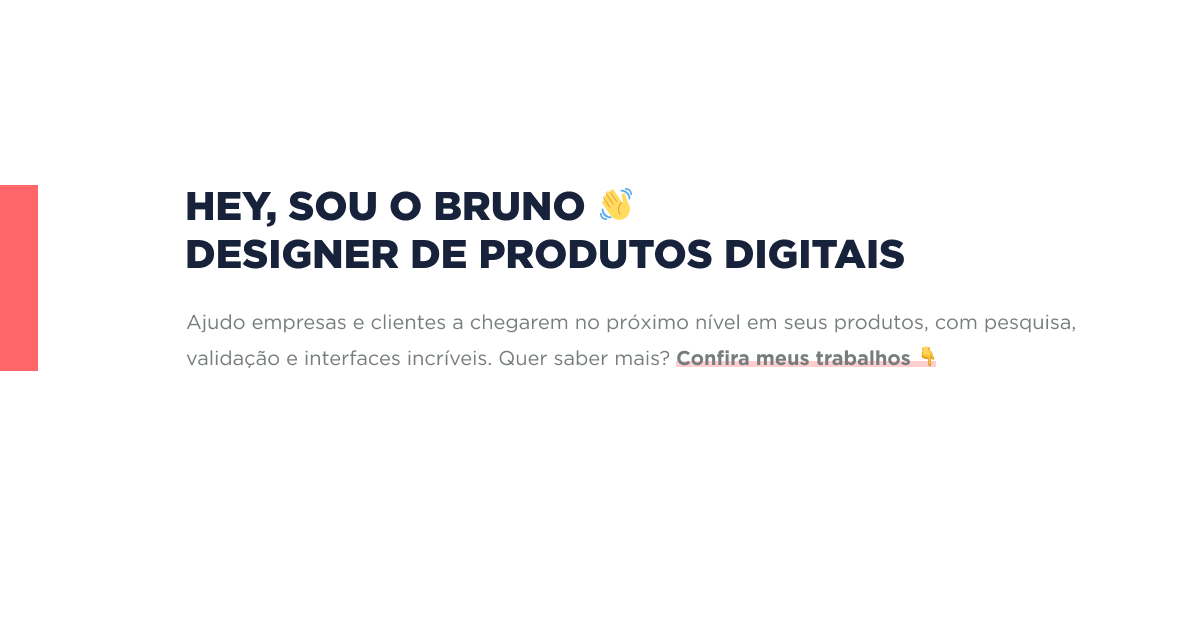
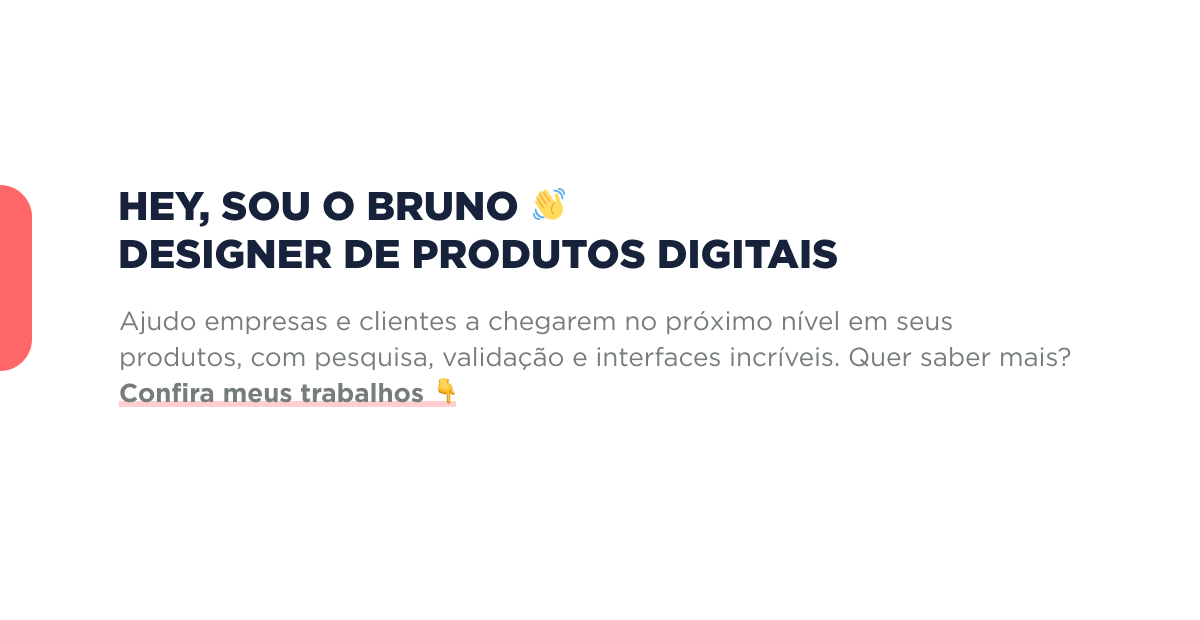
style updates

Changed region(s): [[0.0925, 0.4903, 0.8942, 0.6742], [0.0925, 0.3065, 0.7708, 0.4597], [0.0, 0.2758, 0.0308, 0.6129]]

diff --git a/v1/css/style.css b/v1/css/style.css
@@ -1,1 +1,1 @@
-@import url("https://fonts.googleapis.com/css2?family=Montserrat:ital,wght@0,300;0,400;0,500;0,900;1,700&display=swap");@import url("https://maxcdn.bootstrapcdn.com/font-awesome/4.7.0/css/font-awesome.min.css");/* line 52, scss/_guide.scss */#presentation p,#profile p,.intro-job p,.intro-job ul li p,.understand-job p,.result-job p{font-size:1.125rem;font-family:'Montserrat', sans-serif;font-weight:300;color:#2e3131;line-height:180%}@media (max-width: 575px){/* line 52, scss/_guide.scss */#presentation p,#profile p,.intro-job p,.intro-job ul li p,.understand-job p,.result-job p{font-size:1rem}}/* line 62, scss/_guide.scss */#profile .social-media ul li a,footer .contact a{font-size:1rem;font-family:'Montserrat', sans-serif;font-weight:400;letter-spacing:.5rem;text-transform:uppercase;color:#2e3131;-webkit-transition:all 0.3s ease-in-out 0s;transition:all 0.3s ease-in-out 0s}/* line 70, scss/_guide.scss */#profile .social-media ul li a:hover,footer .contact a:hover{text-decoration:none;color:#ff6768}/* line 74, scss/_guide.scss */#profile .social-media ul li a::after,footer .contact a::after{content:'\f061';font-family:FontAwesome;color:#17223b}/* line 80, scss/_guide.scss */#presentation h1,.cover-job h1{font-size:2.5rem;font-family:'Montserrat', sans-serif;font-weight:900;color:#17223b;text-transform:uppercase;line-height:120%;letter-spacing:2px}@media (max-width: 767px){/* line 80, scss/_guide.scss */#presentation h1,.cover-job h1{font-size:1.75rem}}@media (max-width: 375px){/* line 80, scss/_guide.scss */#presentation h1,.cover-job h1{font-size:1.5rem}}/* line 95, scss/_guide.scss */#jobs-done h2,#jobs-done .job .job-link h3,#profile .author h2,#profile .content-list h3,#profile .social-media ul li:first-child,.understand-job h2,.result-job h2,.next-job span{font-family:'Montserrat', sans-serif;font-weight:500;color:#17223b;text-transform:uppercase}/* line 101, scss/_guide.scss */.intro-job ul li::before{width:3rem;height:3rem;background-color:rgba(255,103,104,0.16);position:relative;display:flex;justify-content:center;align-items:center;border-radius:100%}/* line 4, scss/_general.scss */::selection{background:#ff6768;color:#fff}/* line 8, scss/_general.scss */.container-fluid{margin:0;padding:0;overflow:hidden}/* line 18, scss/_general.scss */header.container-fluid{display:flex;justify-content:space-between;align-content:center;align-items:center;padding:2rem}/* line 26, scss/_general.scss */.menu ul{list-style:none;padding:0;margin:0}/* line 30, scss/_general.scss */.menu ul li{display:inline;margin:0 1rem 0 0}/* line 33, scss/_general.scss */.menu ul li a{font-family:'Montserrat', sans-serif;font-weight:300;color:#2e3131;font-size:1rem;font-weight:400;-webkit-transition:all 0.3s ease-in-out 0s;transition:all 0.3s ease-in-out 0s}/* line 40, scss/_general.scss */.menu ul li a:hover{color:#ff6768;text-decoration:none}/* line 45, scss/_general.scss */.menu ul li:last-child{background-color:#ff6768;padding:.8rem 1.5rem;border-radius:1.5rem}/* line 49, scss/_general.scss */.menu ul li:last-child a{color:#fff}/* line 51, scss/_general.scss */.menu ul li:last-child a:hover{color:none}/* line 60, scss/_general.scss */#presentation,#jobs-done,#profile{margin-bottom:10rem}/* line 64, scss/_general.scss */#presentation{margin-top:10rem}/* line 69, scss/_general.scss */#presentation p{width:85%;position:relative}/* line 73, scss/_general.scss */#presentation p span{font-weight:500;color:#2e3131;position:absolute}/* line 77, scss/_general.scss */#presentation p span::after{content:'';display:block;background:rgba(255,103,104,0.15);height:.4rem;width:100%;top:1.2rem;position:absolute;z-index:-1}/* line 94, scss/_general.scss */#jobs-done a:hover{text-decoration:none}/* line 98, scss/_general.scss */#jobs-done h2{font-size:2rem;margin-bottom:3rem}/* line 104, scss/_general.scss */#jobs-done .row .job:nth-child(2),#jobs-done .row .job:nth-child(4){margin-top:3rem}/* line 108, scss/_general.scss */#jobs-done .job{margin-bottom:3rem;transition:transform .2s}/* line 111, scss/_general.scss */#jobs-done .job:hover{transform:scale(1.03)}/* line 114, scss/_general.scss */#jobs-done .job .job-img{width:100%;height:29.75rem;background-size:cover;background-repeat:no-repeat;background-position:center;border-radius:4px;margin-bottom:1rem}/* line 123, scss/_general.scss */#jobs-done .job .job-1{background-image:url(../assets/img/mckp_site_cnn.png)}/* line 126, scss/_general.scss */#jobs-done .job .job-2{background-image:url(../assets/img/mckp_site_wiseapp.png)}/* line 129, scss/_general.scss */#jobs-done .job .job-3{background-image:url(../assets/img/mckp_site_bant.png)}/* line 132, scss/_general.scss */#jobs-done .job .job-4{background-image:url(../assets/img/mckp_site_beebox.png)}/* line 135, scss/_general.scss */#jobs-done .job .job-link{width:100%;display:flex;justify-content:space-between;align-content:center;align-items:center}/* line 141, scss/_general.scss */#jobs-done .job .job-link h3{font-size:1.5rem}/* line 145, scss/_general.scss */#jobs-done .job .job-link span{width:2.5rem;height:2.5rem;background-color:#ff6768;border-radius:100%;display:flex;justify-content:center;align-content:center;align-items:center}/* line 154, scss/_general.scss */#jobs-done .job .job-link span::after{content:'\f061';font-family:FontAwesome;color:#fff}/* line 164, scss/_general.scss */#profile{width:96%;margin-left:2%;background-color:#f6f4f4;border-radius:4px}/* line 169, scss/_general.scss */#profile .author{display:flex;justify-content:first baseline;align-items:center;margin:2rem 0 1rem 0}/* line 174, scss/_general.scss */#profile .author .foto-perfil-wrap{width:6.75rem;height:6.75rem;position:relative;background:linear-gradient(to bottom, #FF6768, #FFC8C8);padding:3px;border-radius:100%;margin-right:1rem}/* line 183, scss/_general.scss */#profile .author .foto-perfil{width:102px;height:102px;border-radius:100%;background-image:url("../assets/img/foto_bq_medias_6.jpg");background-size:cover}/* line 190, scss/_general.scss */#profile .author h2{font-size:2rem}/* line 195, scss/_general.scss */#profile p{margin-bottom:2rem}/* line 200, scss/_general.scss */#profile .content-list h3{font-size:1.25rem;margin-bottom:1.5rem}/* line 205, scss/_general.scss */#profile .content-list ul{list-style:none;padding:0;margin:0}/* line 209, scss/_general.scss */#profile .content-list ul li,#profile .content-list ul h4{margin-bottom:1rem;font-size:1rem;font-family:'Montserrat', sans-serif;font-weight:500;color:#17223b}/* line 215, scss/_general.scss */#profile .content-list ul li .job-atual,#profile .content-list ul h4 .job-atual{background:#ff6768;padding:.3rem;color:#fff;font-size:.875rem;border-radius:4px}/* line 225, scss/_general.scss */#profile .social-media{margin:3rem 0 2rem 0}/* line 227, scss/_general.scss */#profile .social-media ul{list-style:none;margin:0;padding:0}/* line 231, scss/_general.scss */#profile .social-media ul li{margin-right:1rem;float:left}/* line 232, scss/_general.scss */#profile .social-media ul li:first-child{font-size:1.25rem;position:relative;top:-2px;margin-right:2rem}/* line 250, scss/_general.scss */footer .row{margin:0}/* line 253, scss/_general.scss */footer .contact{display:flex;justify-content:space-between;align-items:center;margin-bottom:10rem}/* line 258, scss/_general.scss */footer .contact h2{font-size:2.5rem;font-family:'Montserrat', sans-serif;font-weight:700;color:#17223b;text-transform:uppercase}/* line 269, scss/_general.scss */footer .year{font-size:.75rem;font-family:'Montserrat', sans-serif;font-weight:400;letter-spacing:.5rem;text-transform:uppercase;color:#2e3131;margin-bottom:3rem}/* line 280, scss/_general.scss */.cover-job{width:100%;height:13.75rem;display:flex;justify-content:flex-end;align-content:flex-end;flex-direction:column;position:relative}/* line 289, scss/_general.scss */.cover-job h1{color:#17223b;margin-bottom:3rem;z-index:2}/* line 297, scss/_general.scss */.intro-job{margin:2rem 0 5rem 0}/* line 302, scss/_general.scss */.intro-job ul{list-style:none;padding:0;margin:0}/* line 306, scss/_general.scss */.intro-job ul li::before{float:left;margin-right:1rem;content:'';background-repeat:no-repeat;background-position:center center}/* line 314, scss/_general.scss */.intro-job ul li:nth-child(1)::before{background-image:url(../assets/icons/ico_done.svg)}/* line 317, scss/_general.scss */.intro-job ul li:nth-child(2)::before{background-image:url(../assets/icons/ico_map.svg)}/* line 320, scss/_general.scss */.intro-job ul li:nth-child(3)::before{background-image:url(../assets/icons/ico_global.svg)}/* line 324, scss/_general.scss */.intro-job ul li h4{margin-bottom:1rem;font-size:1rem;font-family:'Montserrat', sans-serif;font-weight:500;color:#17223b}/* line 331, scss/_general.scss */.intro-job ul li p{margin-bottom:2rem}/* line 335, scss/_general.scss */.intro-job ul li a{font-weight:500;color:#ff6768;position:absolute;font-size:1.125rem}/* line 340, scss/_general.scss */.intro-job ul li a::after{content:'';display:block;background:rgba(255,103,104,0.15);height:.4rem;width:100%;top:1.2rem;position:absolute;z-index:-1}/* line 350, scss/_general.scss */.intro-job ul li a:hover{text-decoration:none}/* line 357, scss/_general.scss */.understand-job,.result-job{margin-bottom:5rem}/* line 359, scss/_general.scss */.understand-job h2,.result-job h2{font-size:1.5rem;margin-bottom:1.5rem}/* line 371, scss/_general.scss */.result-job .row .col-12:nth-child(2),.result-job .row .col-12:nth-child(4),.result-job .row .col-12:nth-child(6){margin-top:3rem}/* line 375, scss/_general.scss */.result-job .result-job-container{width:100%;height:48rem;background-color:#e9e9e9;background-size:cover;background-repeat:no-repeat;background-position:center;border-radius:4px;margin-bottom:3rem}/* line 386, scss/_general.scss */.result-job .job-bant-1{background-image:url(../assets/img/img_bant_1.jpg)}/* line 389, scss/_general.scss */.result-job .job-bant-2{background-image:url(../assets/img/img_bant_2.jpg)}/* line 393, scss/_general.scss */.result-job .job-bb-1{background-image:url(../assets/img/img_bb_1.jpg)}/* line 396, scss/_general.scss */.result-job .job-bb-2{background-image:url(../assets/img/img_bb_2.jpg)}/* line 399, scss/_general.scss */.result-job .job-bb-3{background-image:url(../assets/img/img_bb_3.jpg)}/* line 403, scss/_general.scss */.result-job .job-cnn-1{background-image:url(../assets/img/img_cnn_1.jpg)}/* line 406, scss/_general.scss */.result-job .job-cnn-2{background-image:url(../assets/img/img_cnn_2.jpg)}/* line 410, scss/_general.scss */.result-job .job-wise-1{background-image:url(../assets/img/img_wise_1.jpg)}/* line 413, scss/_general.scss */.result-job .job-wise-2{background-image:url(../assets/img/img_wise_2.jpg)}/* line 418, scss/_general.scss */.next-job{width:100%;height:12.5rem;display:flex;justify-content:center;align-content:center;align-items:center;margin-bottom:5rem}/* line 426, scss/_general.scss */.next-job span{font-size:1.5rem;margin-bottom:2rem;display:block}/* line 432, scss/_general.scss */.next-job a{display:block;text-align:center;font-family:'Montserrat', sans-serif;font-weight:500;font-size:1.125rem;-webkit-transition:all 0.3s ease-in-out 0s;transition:all 0.3s ease-in-out 0s;background-color:#ff6768;padding:.8rem 1.5rem;border-radius:1.5rem;color:#fff}/* line 443, scss/_general.scss */.next-job a:hover{color:none;text-decoration:none}@media (max-width: 1199px){/* line 4, scss/_media-querie.scss */.intro-job ul li::before{float:none;margin:0 0 1rem 0}/* line 9, scss/_media-querie.scss */.intro-job ul li p{margin-bottom:1rem}}@media (max-width: 991px){/* line 19, scss/_media-querie.scss */#jobs-done .job .job-img{height:20rem}/* line 25, scss/_media-querie.scss */.result-job .result-job-container{height:31.25rem}}@media (max-width: 767px){/* line 32, scss/_media-querie.scss */#presentation p{width:100%}/* line 38, scss/_media-querie.scss */#jobs-done .row .job:nth-child(2),#jobs-done .row .job:nth-child(4){margin-top:0}/* line 46, scss/_media-querie.scss */#profile .social-media ul li{margin:0 0 1rem 0;float:none}/* line 54, scss/_media-querie.scss */footer h2{margin-bottom:2rem}/* line 59, scss/_media-querie.scss */.intro-job p{margin-bottom:3rem}/* line 65, scss/_media-querie.scss */.result-job .row .col-12:nth-child(2),.result-job .row .col-12:nth-child(4),.result-job .row .col-12:nth-child(6){margin-top:0}}@media (max-width: 575px){/* line 72, scss/_media-querie.scss */header.container-fluid{padding:2rem 1rem}/* line 77, scss/_media-querie.scss */.menu ul li{margin:0}/* line 82, scss/_media-querie.scss */#presentation,#jobs-done,#profile{margin-bottom:7rem}/* line 85, scss/_media-querie.scss */#presentation{margin-top:5rem}/* line 88, scss/_media-querie.scss */#presentation p a{display:block}/* line 94, scss/_media-querie.scss */#jobs-done h2{font-size:1.5rem}/* line 98, scss/_media-querie.scss */#jobs-done .job .job-link{font-size:1.25rem}/* line 104, scss/_media-querie.scss */.result-job .result-job-container{height:23rem}}
+@import url("https://fonts.googleapis.com/css2?family=Montserrat:ital,wght@0,300;0,400;0,500;0,900;1,700&display=swap");@import url("https://maxcdn.bootstrapcdn.com/font-awesome/4.7.0/css/font-awesome.min.css");/* line 51, scss/_guide.scss */#presentation p,#profile p,.intro-job p,.intro-job ul li p,.understand-job p,.result-job p{font-size:1.125rem;font-family:'Montserrat', sans-serif;font-weight:300;color:#2e3131;line-height:180%}@media (max-width: 575px){/* line 51, scss/_guide.scss */#presentation p,#profile p,.intro-job p,.intro-job ul li p,.understand-job p,.result-job p{font-size:1rem}}/* line 61, scss/_guide.scss */#profile .social-media ul li a,footer .contact a{font-size:1rem;font-family:'Montserrat', sans-serif;font-weight:400;letter-spacing:.5rem;text-transform:uppercase;color:#2e3131;-webkit-transition:all 0.3s ease-in-out 0s;transition:all 0.3s ease-in-out 0s}/* line 69, scss/_guide.scss */#profile .social-media ul li a:hover,footer .contact a:hover{text-decoration:none;color:#ff6768}/* line 79, scss/_guide.scss */#presentation h1,.cover-job h1{font-size:2.5rem;font-family:'Montserrat', sans-serif;font-weight:900;color:#17223b;text-transform:uppercase;line-height:120%;letter-spacing:2px}@media (max-width: 767px){/* line 79, scss/_guide.scss */#presentation h1,.cover-job h1{font-size:1.75rem}}@media (max-width: 375px){/* line 79, scss/_guide.scss */#presentation h1,.cover-job h1{font-size:1.5rem}}/* line 94, scss/_guide.scss */#jobs-done h2,#jobs-done .job .job-link h3,#profile .author h2,#profile .content-list h3,#profile .social-media ul li:first-child,.understand-job h2,.result-job h2,.next-job span{font-family:'Montserrat', sans-serif;font-weight:500;color:#17223b;text-transform:uppercase}/* line 100, scss/_guide.scss */.intro-job ul li::before{width:3rem;height:3rem;background-color:rgba(255,103,104,0.16);position:relative;display:flex;justify-content:center;align-items:center;border-radius:100%}/* line 4, scss/_general.scss */::selection{background:#ff6768;color:#fff}/* line 8, scss/_general.scss */.container-fluid{margin:0;padding:0;overflow:hidden}/* line 18, scss/_general.scss */header.container-fluid{display:flex;justify-content:space-between;align-content:center;align-items:center;padding:2rem}/* line 26, scss/_general.scss */.menu ul{list-style:none;padding:0;margin:0}/* line 30, scss/_general.scss */.menu ul li{display:inline;margin:0 1rem 0 0}/* line 33, scss/_general.scss */.menu ul li a{font-family:'Montserrat', sans-serif;font-weight:300;color:#2e3131;font-size:1rem;font-weight:400;-webkit-transition:all 0.3s ease-in-out 0s;transition:all 0.3s ease-in-out 0s}/* line 40, scss/_general.scss */.menu ul li a:hover{color:#ff6768;text-decoration:none}/* line 45, scss/_general.scss */.menu ul li:last-child{background-color:#ff6768;padding:.8rem 1.5rem;border-radius:1.5rem}/* line 49, scss/_general.scss */.menu ul li:last-child a{color:#fff}/* line 51, scss/_general.scss */.menu ul li:last-child a:hover{color:none}/* line 60, scss/_general.scss */#presentation,#jobs-done,#profile{margin-bottom:10rem}/* line 64, scss/_general.scss */#presentation{margin-top:10rem}/* line 69, scss/_general.scss */#presentation p{width:85%;position:relative}/* line 73, scss/_general.scss */#presentation p span{font-weight:500;color:#2e3131;position:absolute}/* line 77, scss/_general.scss */#presentation p span::after{content:'';display:block;background:rgba(255,103,104,0.15);height:.4rem;width:100%;top:1.2rem;position:absolute;z-index:-1}/* line 94, scss/_general.scss */#jobs-done a:hover{text-decoration:none}/* line 98, scss/_general.scss */#jobs-done h2{font-size:2rem;margin-bottom:3rem}/* line 104, scss/_general.scss */#jobs-done .row .job:nth-child(2),#jobs-done .row .job:nth-child(4){margin-top:3rem}/* line 108, scss/_general.scss */#jobs-done .job{margin-bottom:3rem;transition:transform .2s}/* line 111, scss/_general.scss */#jobs-done .job:hover{transform:scale(1.03)}/* line 114, scss/_general.scss */#jobs-done .job .job-img{width:100%;height:29.75rem;background-size:cover;background-repeat:no-repeat;background-position:center;border-radius:4px;margin-bottom:1rem}/* line 123, scss/_general.scss */#jobs-done .job .job-1{background-image:url(../assets/img/mckp_site_cnn.png)}/* line 126, scss/_general.scss */#jobs-done .job .job-2{background-image:url(../assets/img/mckp_site_wiseapp.png)}/* line 129, scss/_general.scss */#jobs-done .job .job-3{background-image:url(../assets/img/mckp_site_bant.png)}/* line 132, scss/_general.scss */#jobs-done .job .job-4{background-image:url(../assets/img/mckp_site_beebox.png)}/* line 135, scss/_general.scss */#jobs-done .job .job-link{width:100%;display:flex;justify-content:space-between;align-content:center;align-items:center}/* line 141, scss/_general.scss */#jobs-done .job .job-link h3{font-size:1.5rem}/* line 145, scss/_general.scss */#jobs-done .job .job-link span{width:2.5rem;height:2.5rem;background-color:#ff6768;border-radius:100%;display:flex;justify-content:center;align-content:center;align-items:center}/* line 154, scss/_general.scss */#jobs-done .job .job-link span::after{content:'\f061';font-family:FontAwesome;color:#fff}/* line 164, scss/_general.scss */#profile{width:96%;margin-left:2%;background-color:#f6f4f4;border-radius:4px}/* line 169, scss/_general.scss */#profile .author{display:flex;justify-content:first baseline;align-items:center;margin:2rem 0 1rem 0}/* line 174, scss/_general.scss */#profile .author .foto-perfil-wrap{width:6.75rem;height:6.75rem;position:relative;background:linear-gradient(to bottom, #FF6768, #FFC8C8);padding:3px;border-radius:100%;margin-right:1rem}/* line 183, scss/_general.scss */#profile .author .foto-perfil{width:102px;height:102px;border-radius:100%;background-image:url("../assets/img/foto_bq_medias_6.jpg");background-size:cover}/* line 190, scss/_general.scss */#profile .author h2{font-size:2rem}/* line 195, scss/_general.scss */#profile p{margin-bottom:2rem}/* line 200, scss/_general.scss */#profile .content-list h3{font-size:1.25rem;margin-bottom:1.5rem}/* line 205, scss/_general.scss */#profile .content-list ul{list-style:none;padding:0;margin:0}/* line 209, scss/_general.scss */#profile .content-list ul li,#profile .content-list ul h4{margin-bottom:1rem;font-size:1rem;font-family:'Montserrat', sans-serif;font-weight:500;color:#17223b}/* line 215, scss/_general.scss */#profile .content-list ul li .job-atual,#profile .content-list ul h4 .job-atual{background:#ff6768;padding:.3rem;color:#fff;font-size:.875rem;border-radius:4px}/* line 225, scss/_general.scss */#profile .social-media{margin:3rem 0 2rem 0}/* line 227, scss/_general.scss */#profile .social-media ul{list-style:none;margin:0;padding:0}/* line 231, scss/_general.scss */#profile .social-media ul li{margin-right:1rem;float:left}/* line 232, scss/_general.scss */#profile .social-media ul li:first-child{font-size:1.25rem;position:relative;top:-2px;margin-right:2rem}/* line 250, scss/_general.scss */footer .row{margin:0}/* line 253, scss/_general.scss */footer .contact{display:flex;justify-content:space-between;align-items:center;margin-bottom:10rem}/* line 258, scss/_general.scss */footer .contact h2{font-size:2.5rem;font-family:'Montserrat', sans-serif;font-weight:700;color:#17223b;text-transform:uppercase}/* line 269, scss/_general.scss */footer .year{font-size:.75rem;font-family:'Montserrat', sans-serif;font-weight:400;letter-spacing:.5rem;text-transform:uppercase;color:#2e3131;margin-bottom:3rem}/* line 280, scss/_general.scss */.cover-job{width:100%;height:13.75rem;display:flex;justify-content:flex-end;align-content:flex-end;flex-direction:column;position:relative}/* line 289, scss/_general.scss */.cover-job h1{color:#17223b;margin-bottom:3rem;z-index:2}/* line 297, scss/_general.scss */.intro-job{margin:2rem 0 5rem 0}/* line 302, scss/_general.scss */.intro-job ul{list-style:none;padding:0;margin:0}/* line 306, scss/_general.scss */.intro-job ul li::before{float:left;margin-right:1rem;content:'';background-repeat:no-repeat;background-position:center center}/* line 314, scss/_general.scss */.intro-job ul li:nth-child(1)::before{background-image:url(../assets/icons/ico_done.svg)}/* line 317, scss/_general.scss */.intro-job ul li:nth-child(2)::before{background-image:url(../assets/icons/ico_map.svg)}/* line 320, scss/_general.scss */.intro-job ul li:nth-child(3)::before{background-image:url(../assets/icons/ico_global.svg)}/* line 324, scss/_general.scss */.intro-job ul li h4{margin-bottom:1rem;font-size:1rem;font-family:'Montserrat', sans-serif;font-weight:500;color:#17223b}/* line 331, scss/_general.scss */.intro-job ul li p{margin-bottom:2rem}/* line 335, scss/_general.scss */.intro-job ul li a{font-weight:500;color:#ff6768;position:absolute;font-size:1.125rem}/* line 340, scss/_general.scss */.intro-job ul li a::after{content:'';display:block;background:rgba(255,103,104,0.15);height:.4rem;width:100%;top:1.2rem;position:absolute;z-index:-1}/* line 350, scss/_general.scss */.intro-job ul li a:hover{text-decoration:none}/* line 357, scss/_general.scss */.understand-job,.result-job{margin-bottom:5rem}/* line 359, scss/_general.scss */.understand-job h2,.result-job h2{font-size:1.5rem;margin-bottom:1.5rem}/* line 371, scss/_general.scss */.result-job .row .col-12:nth-child(2),.result-job .row .col-12:nth-child(4),.result-job .row .col-12:nth-child(6){margin-top:3rem}/* line 375, scss/_general.scss */.result-job .result-job-container{width:100%;height:48rem;background-color:#e9e9e9;background-size:cover;background-repeat:no-repeat;background-position:center;border-radius:4px;margin-bottom:3rem}/* line 386, scss/_general.scss */.result-job .job-bant-1{background-image:url(../assets/img/img_bant_1.jpg)}/* line 389, scss/_general.scss */.result-job .job-bant-2{background-image:url(../assets/img/img_bant_2.jpg)}/* line 393, scss/_general.scss */.result-job .job-bb-1{background-image:url(../assets/img/img_bb_1.jpg)}/* line 396, scss/_general.scss */.result-job .job-bb-2{background-image:url(../assets/img/img_bb_2.jpg)}/* line 399, scss/_general.scss */.result-job .job-bb-3{background-image:url(../assets/img/img_bb_3.jpg)}/* line 403, scss/_general.scss */.result-job .job-cnn-1{background-image:url(../assets/img/img_cnn_1.jpg)}/* line 406, scss/_general.scss */.result-job .job-cnn-2{background-image:url(../assets/img/img_cnn_2.jpg)}/* line 410, scss/_general.scss */.result-job .job-wise-1{background-image:url(../assets/img/img_wise_1.jpg)}/* line 413, scss/_general.scss */.result-job .job-wise-2{background-image:url(../assets/img/img_wise_2.jpg)}/* line 418, scss/_general.scss */.next-job{width:100%;height:12.5rem;display:flex;justify-content:center;align-content:center;align-items:center;margin-bottom:5rem}/* line 426, scss/_general.scss */.next-job span{font-size:1.5rem;margin-bottom:2rem;display:block}/* line 432, scss/_general.scss */.next-job a{display:block;text-align:center;font-family:'Montserrat', sans-serif;font-weight:500;font-size:1.125rem;-webkit-transition:all 0.3s ease-in-out 0s;transition:all 0.3s ease-in-out 0s;background-color:#ff6768;padding:.8rem 1.5rem;border-radius:1.5rem;color:#fff}/* line 443, scss/_general.scss */.next-job a:hover{color:none;text-decoration:none}@media (max-width: 1199px){/* line 4, scss/_media-querie.scss */.intro-job ul li::before{float:none;margin:0 0 1rem 0}/* line 9, scss/_media-querie.scss */.intro-job ul li p{margin-bottom:1rem}}@media (max-width: 991px){/* line 19, scss/_media-querie.scss */#jobs-done .job .job-img{height:20rem}/* line 25, scss/_media-querie.scss */.result-job .result-job-container{height:31.25rem}}@media (max-width: 767px){/* line 32, scss/_media-querie.scss */#presentation p{width:100%}/* line 38, scss/_media-querie.scss */#jobs-done .row .job:nth-child(2),#jobs-done .row .job:nth-child(4){margin-top:0}/* line 46, scss/_media-querie.scss */#profile .social-media ul li{margin:0 0 1rem 0;float:none}/* line 54, scss/_media-querie.scss */footer h2{margin-bottom:2rem}/* line 59, scss/_media-querie.scss */.intro-job p{margin-bottom:3rem}/* line 65, scss/_media-querie.scss */.result-job .row .col-12:nth-child(2),.result-job .row .col-12:nth-child(4),.result-job .row .col-12:nth-child(6){margin-top:0}}@media (max-width: 575px){/* line 72, scss/_media-querie.scss */header.container-fluid{padding:2rem 1rem}/* line 77, scss/_media-querie.scss */.menu ul li{margin:0}/* line 82, scss/_media-querie.scss */#presentation,#jobs-done,#profile{margin-bottom:7rem}/* line 85, scss/_media-querie.scss */#presentation{margin-top:5rem}/* line 88, scss/_media-querie.scss */#presentation p a{display:block}/* line 95, scss/_media-querie.scss */footer .contact h2{font-size:2rem}/* line 101, scss/_media-querie.scss */#jobs-done h2{font-size:1.5rem}/* line 105, scss/_media-querie.scss */#jobs-done .job .job-link{font-size:1.25rem}/* line 111, scss/_media-querie.scss */.result-job .result-job-container{height:23rem}}

diff --git a/v1/scss/_guide.scss b/v1/scss/_guide.scss
@@ -47,7 +47,6 @@ $color-gray_300: rgba(46,49,49, 1);
 @mixin fontSize ($size) {
     font-size: calculateRem($size);
 }
-
 // Components
 %text-content {
     @include fontSize(18px);
@@ -71,11 +70,11 @@ $color-gray_300: rgba(46,49,49, 1);
         text-decoration: none;
         color: $color-primary;
     }
-    &::after {
-        content: '\f061';
-        font-family: FontAwesome;
-        color: $color-secondary;
-    }
+    // &::after {
+    //     content: '\f061';
+    //     font-family: FontAwesome;
+    //     color: $color-secondary;
+    // }
 }
 %title-base {
     @include fontSize(40px);

diff --git a/v1/beebox.html b/v1/beebox.html
@@ -101,7 +101,7 @@
     <footer class="container">
         <div class="row contact">
             <h2> Vamos bater <br/> um papo? 🙌 </h2>
-            <a href="mailto:bqdesigner@outlook.com"> Entre em contato </a>
+            <a href="mailto:bqdesigner@outlook.com"> Entre em contato 📧 </a>
         </div>
         <div class="row year">
             <span> Bruno Queirós • 2021 </span>

diff --git a/v1/index.html b/v1/index.html
@@ -175,7 +175,7 @@
     <footer class="container">
         <div class="row contact">
             <h2> Vamos bater <br/> um papo? 🙌 </h2>
-            <a href="mailto:bqdesigner@outlook.com"> Entre em contato </a>
+            <a href="mailto:bqdesigner@outlook.com"> Entre em contato 📧 </a>
         </div>
         <div class="row year">
             <span> Bruno Queirós • 2021 </span>

diff --git a/v1/wiseapp.html b/v1/wiseapp.html
@@ -98,7 +98,7 @@
     <footer class="container">
         <div class="row contact">
             <h2> Vamos bater <br/> um papo? 🙌 </h2>
-            <a href="mailto:bqdesigner@outlook.com"> Entre em contato </a>
+            <a href="mailto:bqdesigner@outlook.com"> Entre em contato 📧  </a>
         </div>
         <div class="row year">
             <span> Bruno Queirós • 2021 </span>

diff --git a/v1/bant.html b/v1/bant.html
@@ -98,7 +98,7 @@
     <footer class="container">
         <div class="row contact">
             <h2> Vamos bater <br/> um papo? 🙌 </h2>
-            <a href="mailto:bqdesigner@outlook.com"> Entre em contato </a>
+            <a href="mailto:bqdesigner@outlook.com"> Entre em contato 📧 </a>
         </div>
         <div class="row year">
             <span> Bruno Queirós • 2021 </span>

diff --git a/v1/cnn.html b/v1/cnn.html
@@ -98,7 +98,7 @@
     <footer class="container">
         <div class="row contact">
             <h2> Vamos bater <br/> um papo? 🙌 </h2>
-            <a href="mailto:bqdesigner@outlook.com"> Entre em contato </a>
+            <a href="mailto:bqdesigner@outlook.com"> Entre em contato 📧 </a>
         </div>
         <div class="row year">
             <span> Bruno Queirós • 2021 </span>

diff --git a/v1/scss/_media-querie.scss b/v1/scss/_media-querie.scss
@@ -90,6 +90,13 @@
             }
         }
     }
+    footer {
+        .contact {
+            h2 {
+                @include fontSize(32px);
+            }
+        }
+    }
     #jobs-done {
         h2 {
             @include fontSize(24px);
